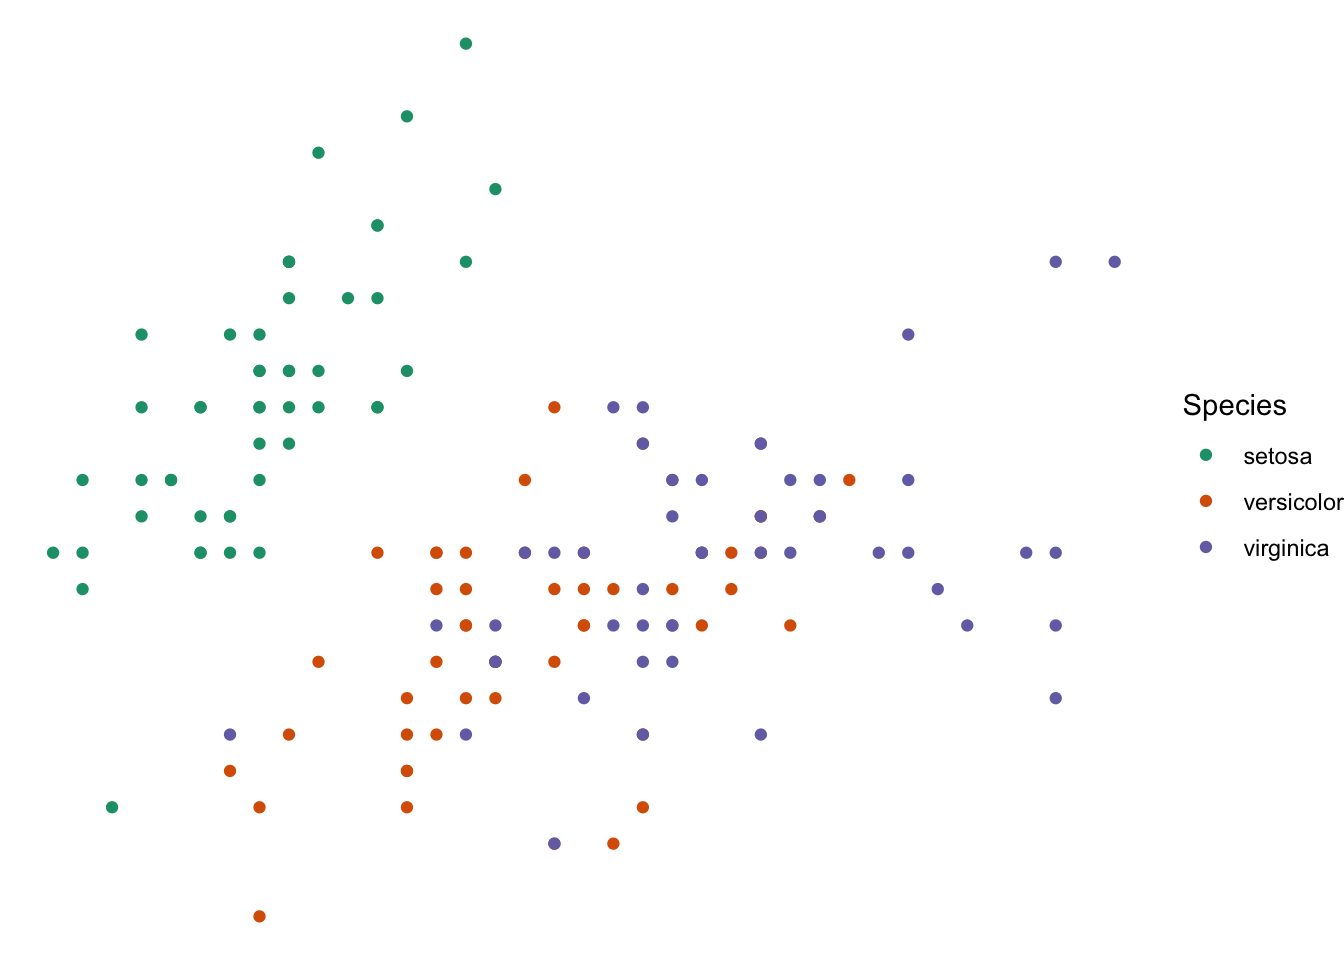
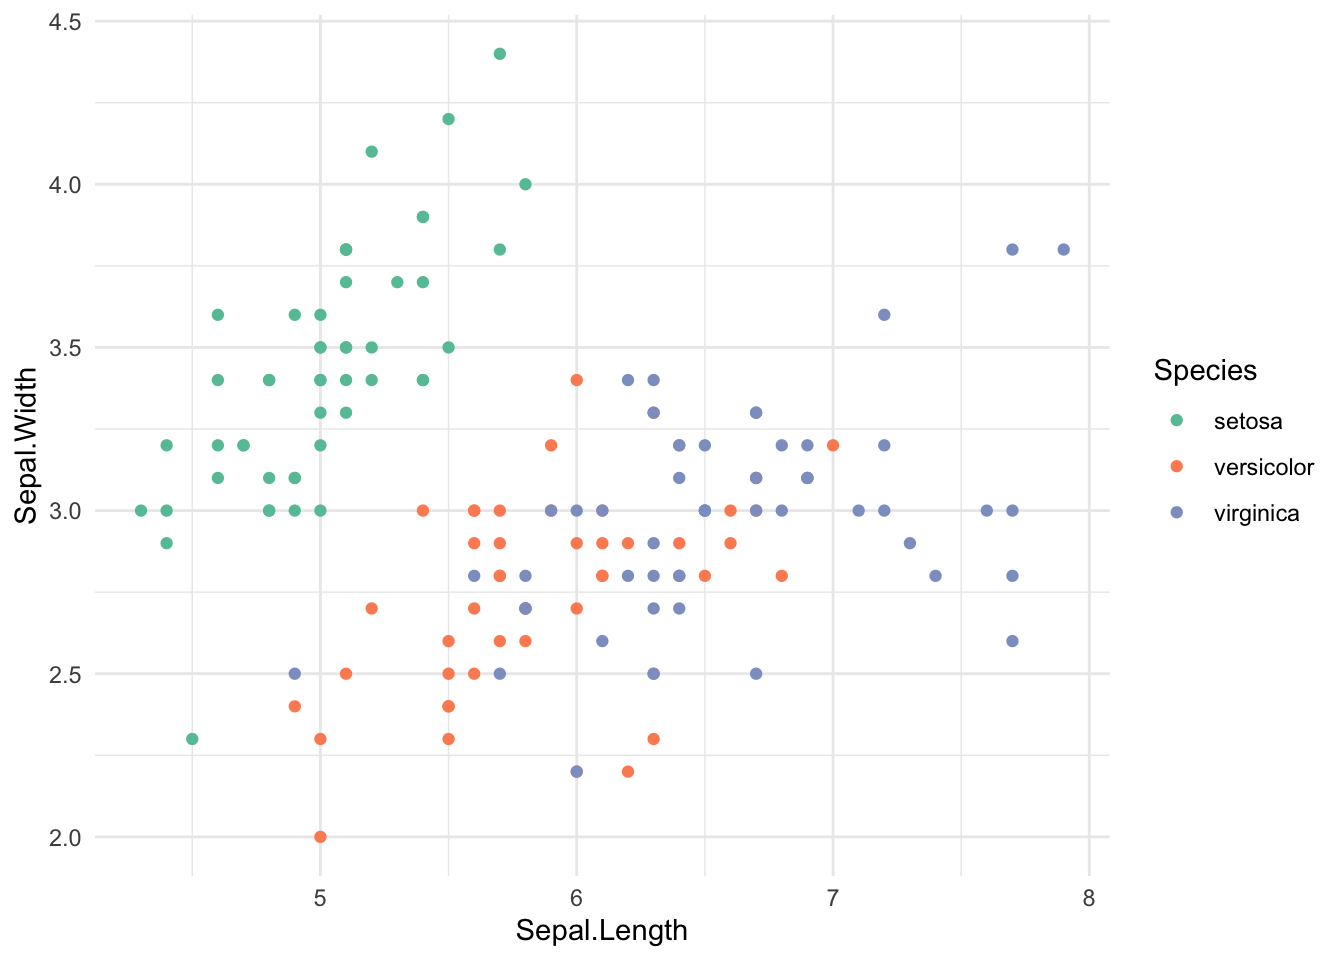
nuevo reporte

diff --git a/docs/index.html b/docs/index.html
@@ -98,6 +98,7 @@ pre > code.sourceCode > span > a:first-child::before { text-decoration: underlin
 
 <section id="prueba-de-subir-un-reporte-quarto-a-github" class="level2">
 <h2 class="anchored" data-anchor-id="prueba-de-subir-un-reporte-quarto-a-github">Prueba de subir un reporte Quarto a Github</h2>
+<p>Hola esta es un actualización</p>
 <div class="cell">
 <div class="sourceCode cell-code" id="cb1"><pre class="sourceCode r code-with-copy"><code class="sourceCode r"><span id="cb1-1"><a href="#cb1-1" aria-hidden="true" tabindex="-1"></a><span class="fu">library</span>(ggplot2)</span>
 <span id="cb1-2"><a href="#cb1-2" aria-hidden="true" tabindex="-1"></a></span>
@@ -105,8 +106,8 @@ pre > code.sourceCode > span > a:first-child::before { text-decoration: underlin
 <span id="cb1-4"><a href="#cb1-4" aria-hidden="true" tabindex="-1"></a>  <span class="fu">ggplot</span>() <span class="sc">+</span></span>
 <span id="cb1-5"><a href="#cb1-5" aria-hidden="true" tabindex="-1"></a>  <span class="fu">aes</span>(<span class="at">x =</span> Sepal.Length, <span class="at">y =</span> Sepal.Width, <span class="at">color =</span> Species) <span class="sc">+</span></span>
 <span id="cb1-6"><a href="#cb1-6" aria-hidden="true" tabindex="-1"></a>  <span class="fu">geom_point</span>() <span class="sc">+</span></span>
-<span id="cb1-7"><a href="#cb1-7" aria-hidden="true" tabindex="-1"></a>  <span class="fu">scale_color_brewer</span>(<span class="at">palette =</span> <span class="st">"Dark2"</span>) <span class="sc">+</span></span>
-<span id="cb1-8"><a href="#cb1-8" aria-hidden="true" tabindex="-1"></a>  <span class="fu">theme_void</span>()</span></code><button title="Copy to Clipboard" class="code-copy-button"><i class="bi"></i></button></pre></div>
+<span id="cb1-7"><a href="#cb1-7" aria-hidden="true" tabindex="-1"></a>  <span class="fu">scale_color_brewer</span>(<span class="at">palette =</span> <span class="st">"Set2"</span>) <span class="sc">+</span></span>
+<span id="cb1-8"><a href="#cb1-8" aria-hidden="true" tabindex="-1"></a>  <span class="fu">theme_minimal</span>()</span></code><button title="Copy to Clipboard" class="code-copy-button"><i class="bi"></i></button></pre></div>
 <div class="cell-output-display">
 <div>
 <figure class="figure">
